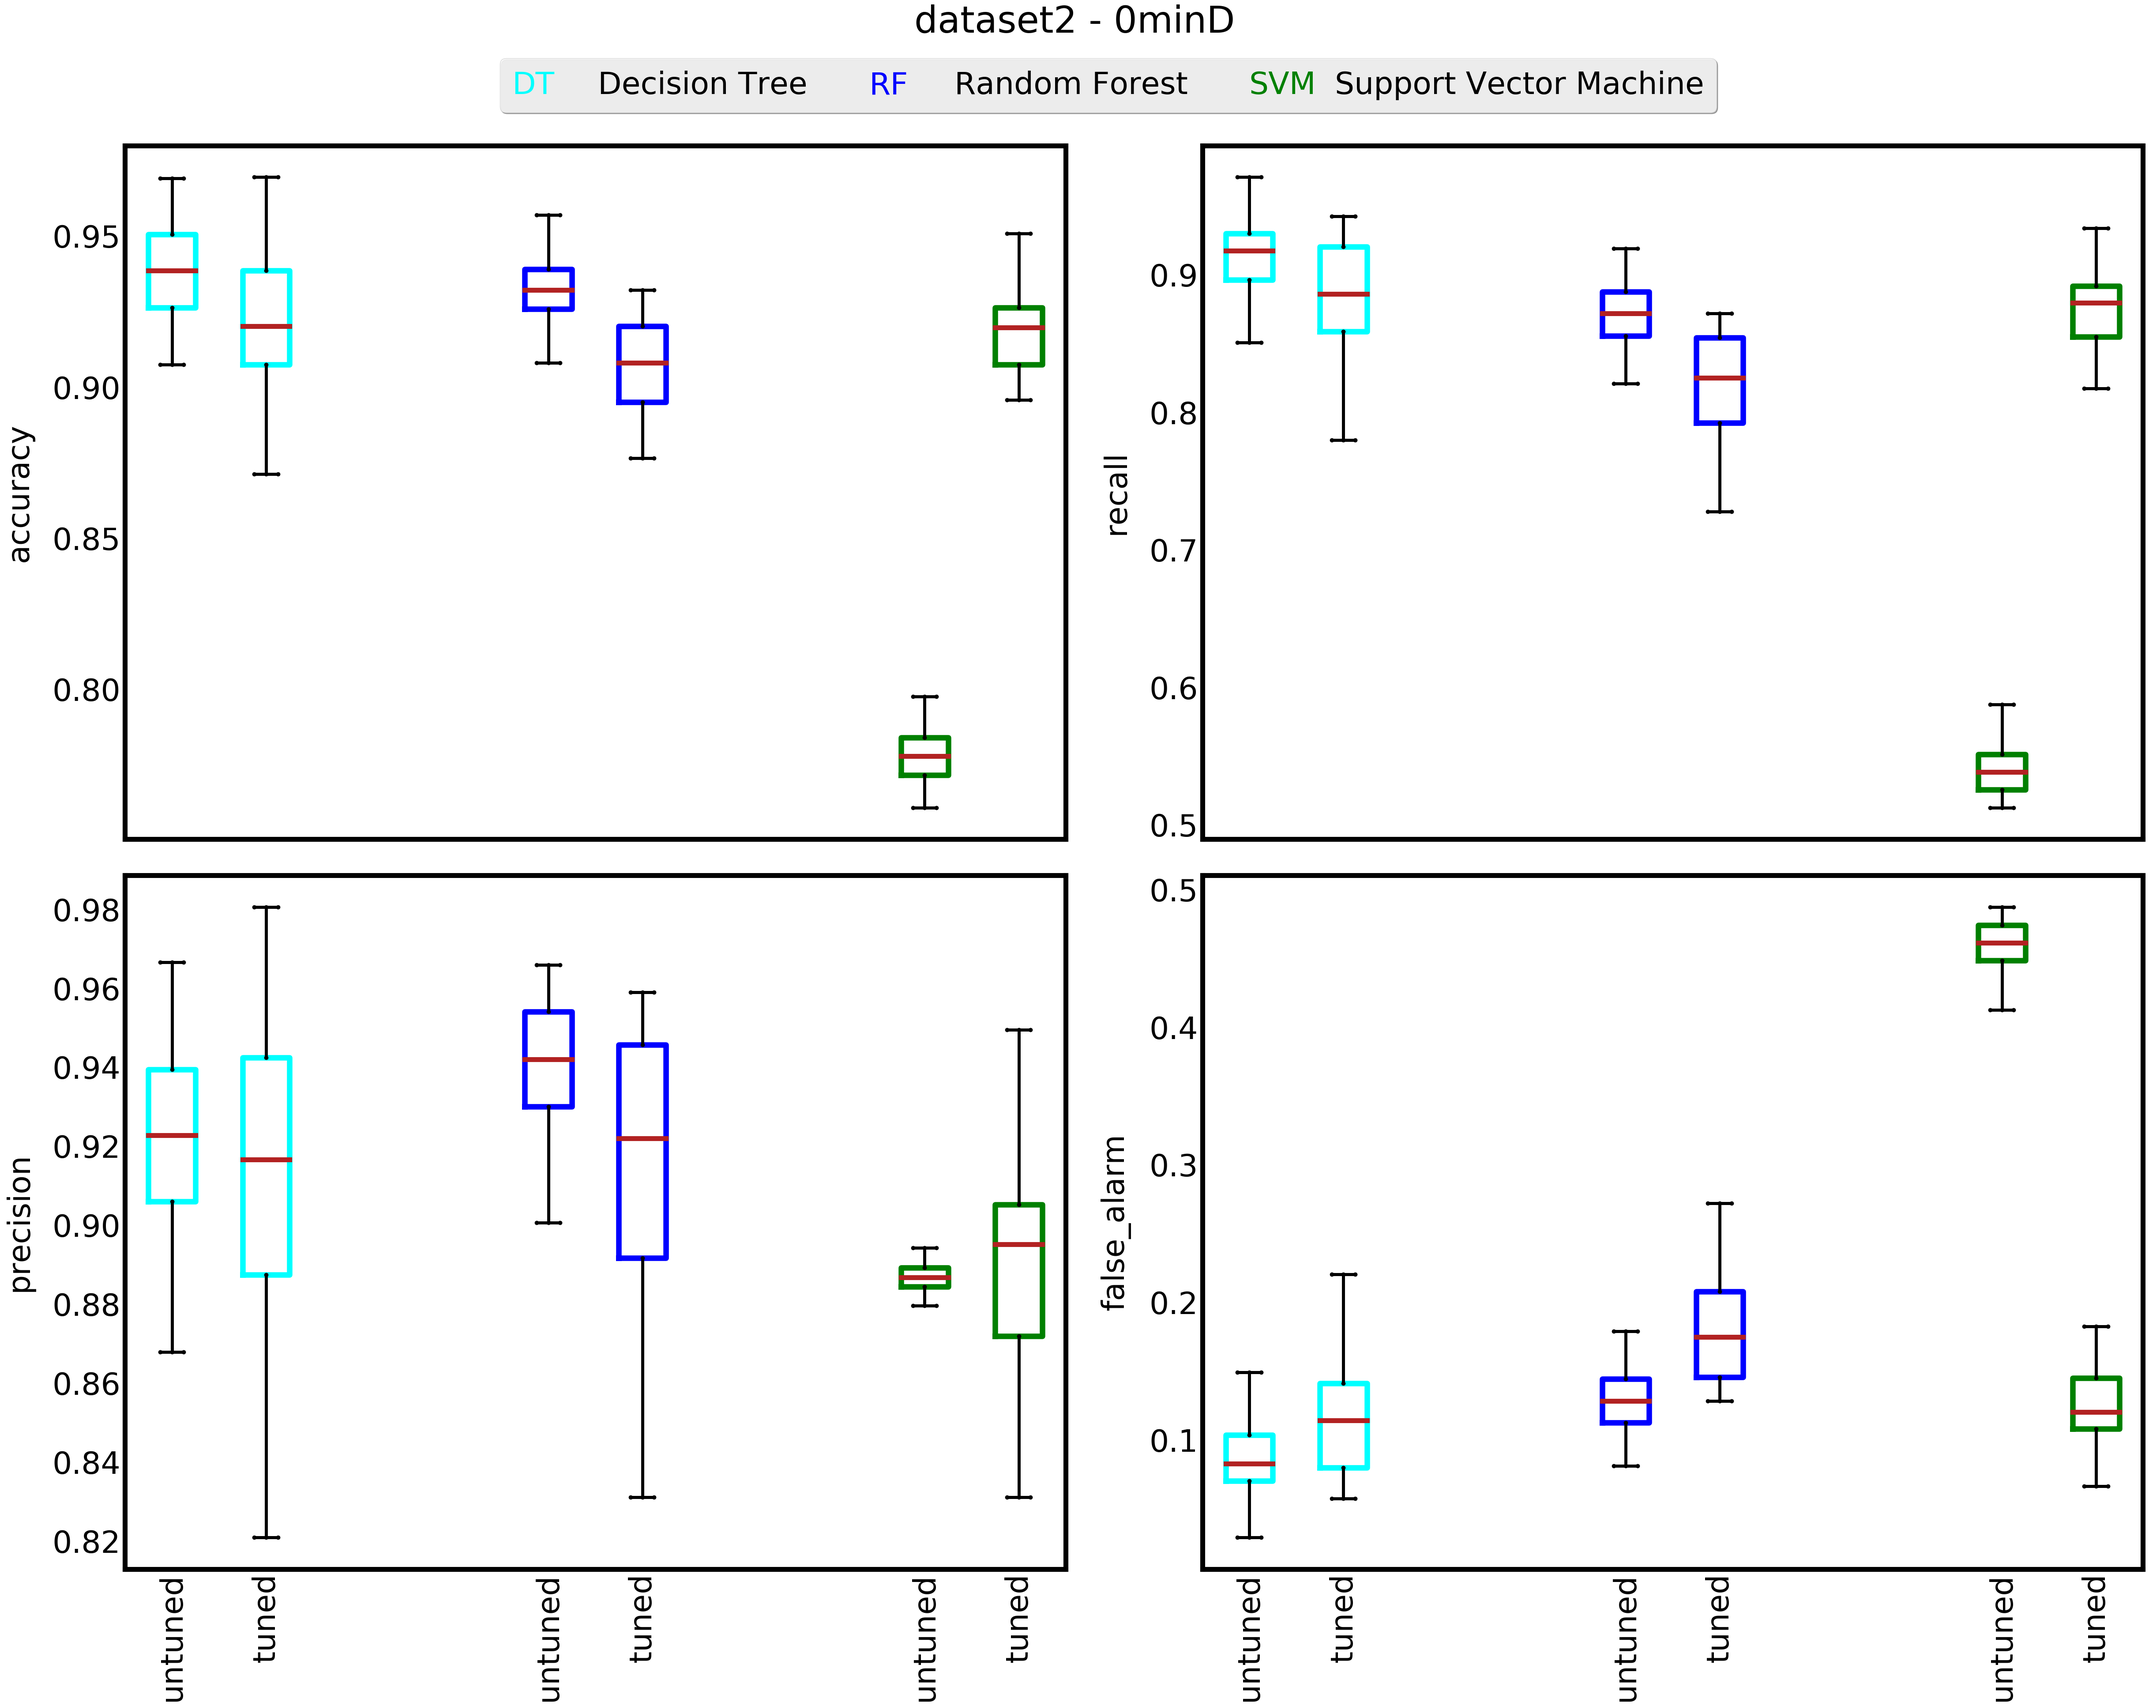
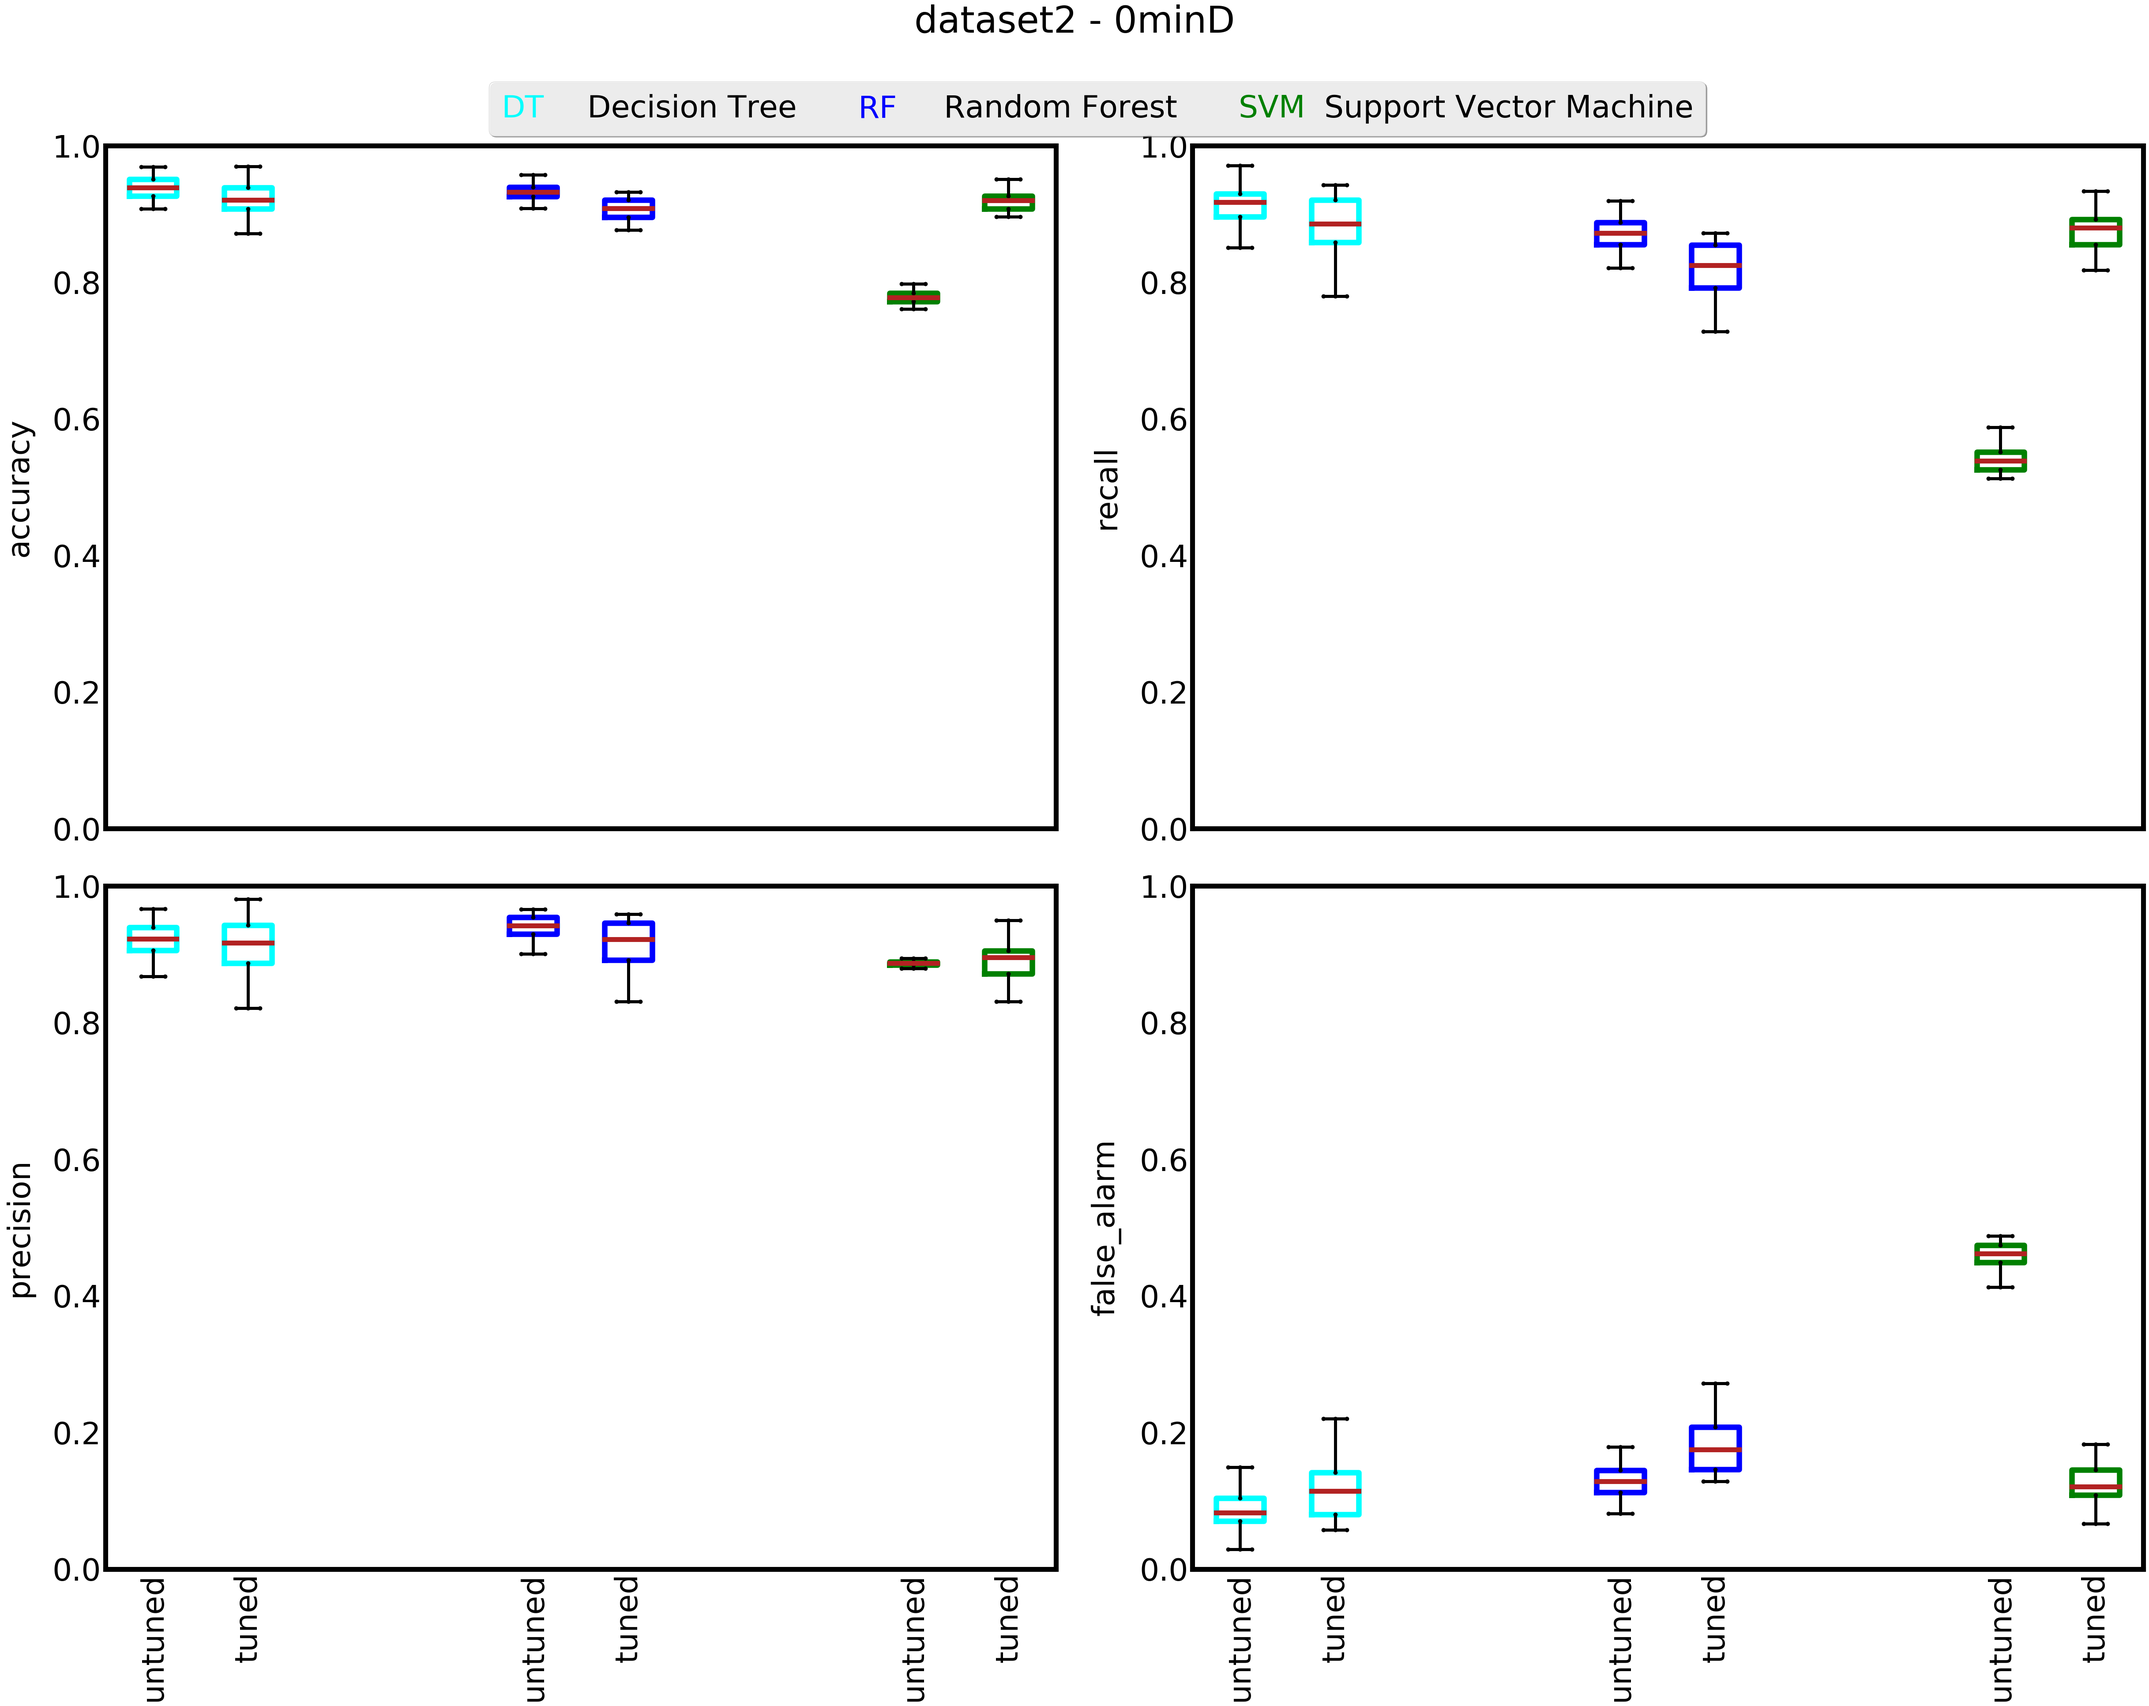
save results

diff --git a/src/read_pickle_new.py b/src/read_pickle_new.py
@@ -307,7 +307,7 @@ def draw_class_comparison(untuned,tuned):
                     axes[k[0], k[1]].set_xticks([1,2,5,6,9,10])
                     axes[k[0], k[1]].set_xticklabels(['untuned','tuned']*3, rotation=90)
                     axes[k[0], k[1]].set_ylabel(c, labelpad=30)
-                    # ax.set_ylim([0,1])
+                    axes[k[0], k[1]].set_ylim([0,1])
                     if k[0] != 1:
                         plt.setp(axes[k[0], k[1]].get_xticklabels(), visible=False)
                 obj_0 = AnyObject("DT", colors[0])
@@ -322,6 +322,54 @@ def draw_class_comparison(untuned,tuned):
                            fancybox=True, shadow=True, ncol=3)
                 plt.savefig("../results/new/performance" + a + b+".png", bbox_inches='tight')
                 plt.close(fig)
+
+
+def draw_reg_comparison(untuned, tuned):
+    font = {'size': 50}
+    plt.rc('font', **font)
+    paras = {'lines.linewidth': 50, 'legend.fontsize': 50, 'axes.labelsize': 50, 'legend.frameon': True,
+             'axes.linewidth': 8}
+    plt.rcParams.update(paras)
+
+    boxprops = dict(linewidth=9, color='black')
+    colors = ['cyan', 'cyan', 'blue', 'blue', 'green', 'green']
+    whiskerprops = dict(linewidth=5)
+    medianprops = dict(linewidth=8, color='firebrick')
+
+    for a in untuned:
+        for b in preprocess_names.values():
+            fig, axes = plt.subplots(1, 1, figsize=(50, 40))
+            l1 = [(0, 0)]
+            for k, c in zip(l1, ['MSE']):
+                temp = untuned[a][c][b]
+                temp1 = tuned[a][c][b]
+                data = []
+                for i, j in enumerate(temp):
+                    data.append(temp[i][1:])
+                    data.append(temp1[i][1:])
+
+                bplot = axes.boxplot(data, showmeans=False, showfliers=False, medianprops=medianprops,
+                                                 capprops=whiskerprops,
+                                                 flierprops=whiskerprops, boxprops=boxprops, whiskerprops=whiskerprops,
+                                                 positions=[1, 2, 5, 6, 9, 10])
+                for patch, color in zip(bplot['boxes'], colors):
+                    patch.set(color=color)
+                axes.set_xticks([1, 2, 5, 6, 9, 10])
+                axes.set_xticklabels(['untuned', 'tuned'] * 3, rotation=90)
+                axes.set_ylabel(c, labelpad=30)
+
+            obj_0 = AnyObject("DT", colors[0])
+            obj_1 = AnyObject("RF", colors[2])
+            obj_2 = AnyObject("SVM", colors[4])
+            plt.suptitle(a + " - " + b)
+            plt.tight_layout()
+            plt.subplots_adjust(top=0.92)
+            plt.legend([obj_0, obj_1, obj_2], ['Decision Tree', 'Random Forest', 'Support Vector Machine'],
+                       handler_map={obj_0: AnyObjectHandler(), obj_1: AnyObjectHandler(), obj_2: AnyObjectHandler()},
+                       loc='upper center', bbox_to_anchor=(0.5, 1.05),
+                       fancybox=True, shadow=True, ncol=3)
+            plt.savefig("../results/new/performance" + a + b + ".png", bbox_inches='tight')
+            plt.close(fig)
 
 def for_untuned():
     dic1={}
@@ -356,3 +404,4 @@ if __name__ == '__main__':
     clas_tu,reg_tu =for_tuned()
 
     draw_class_comparison(clas_un,clas_tu)
+    draw_reg_comparison(reg_un,reg_tu)
